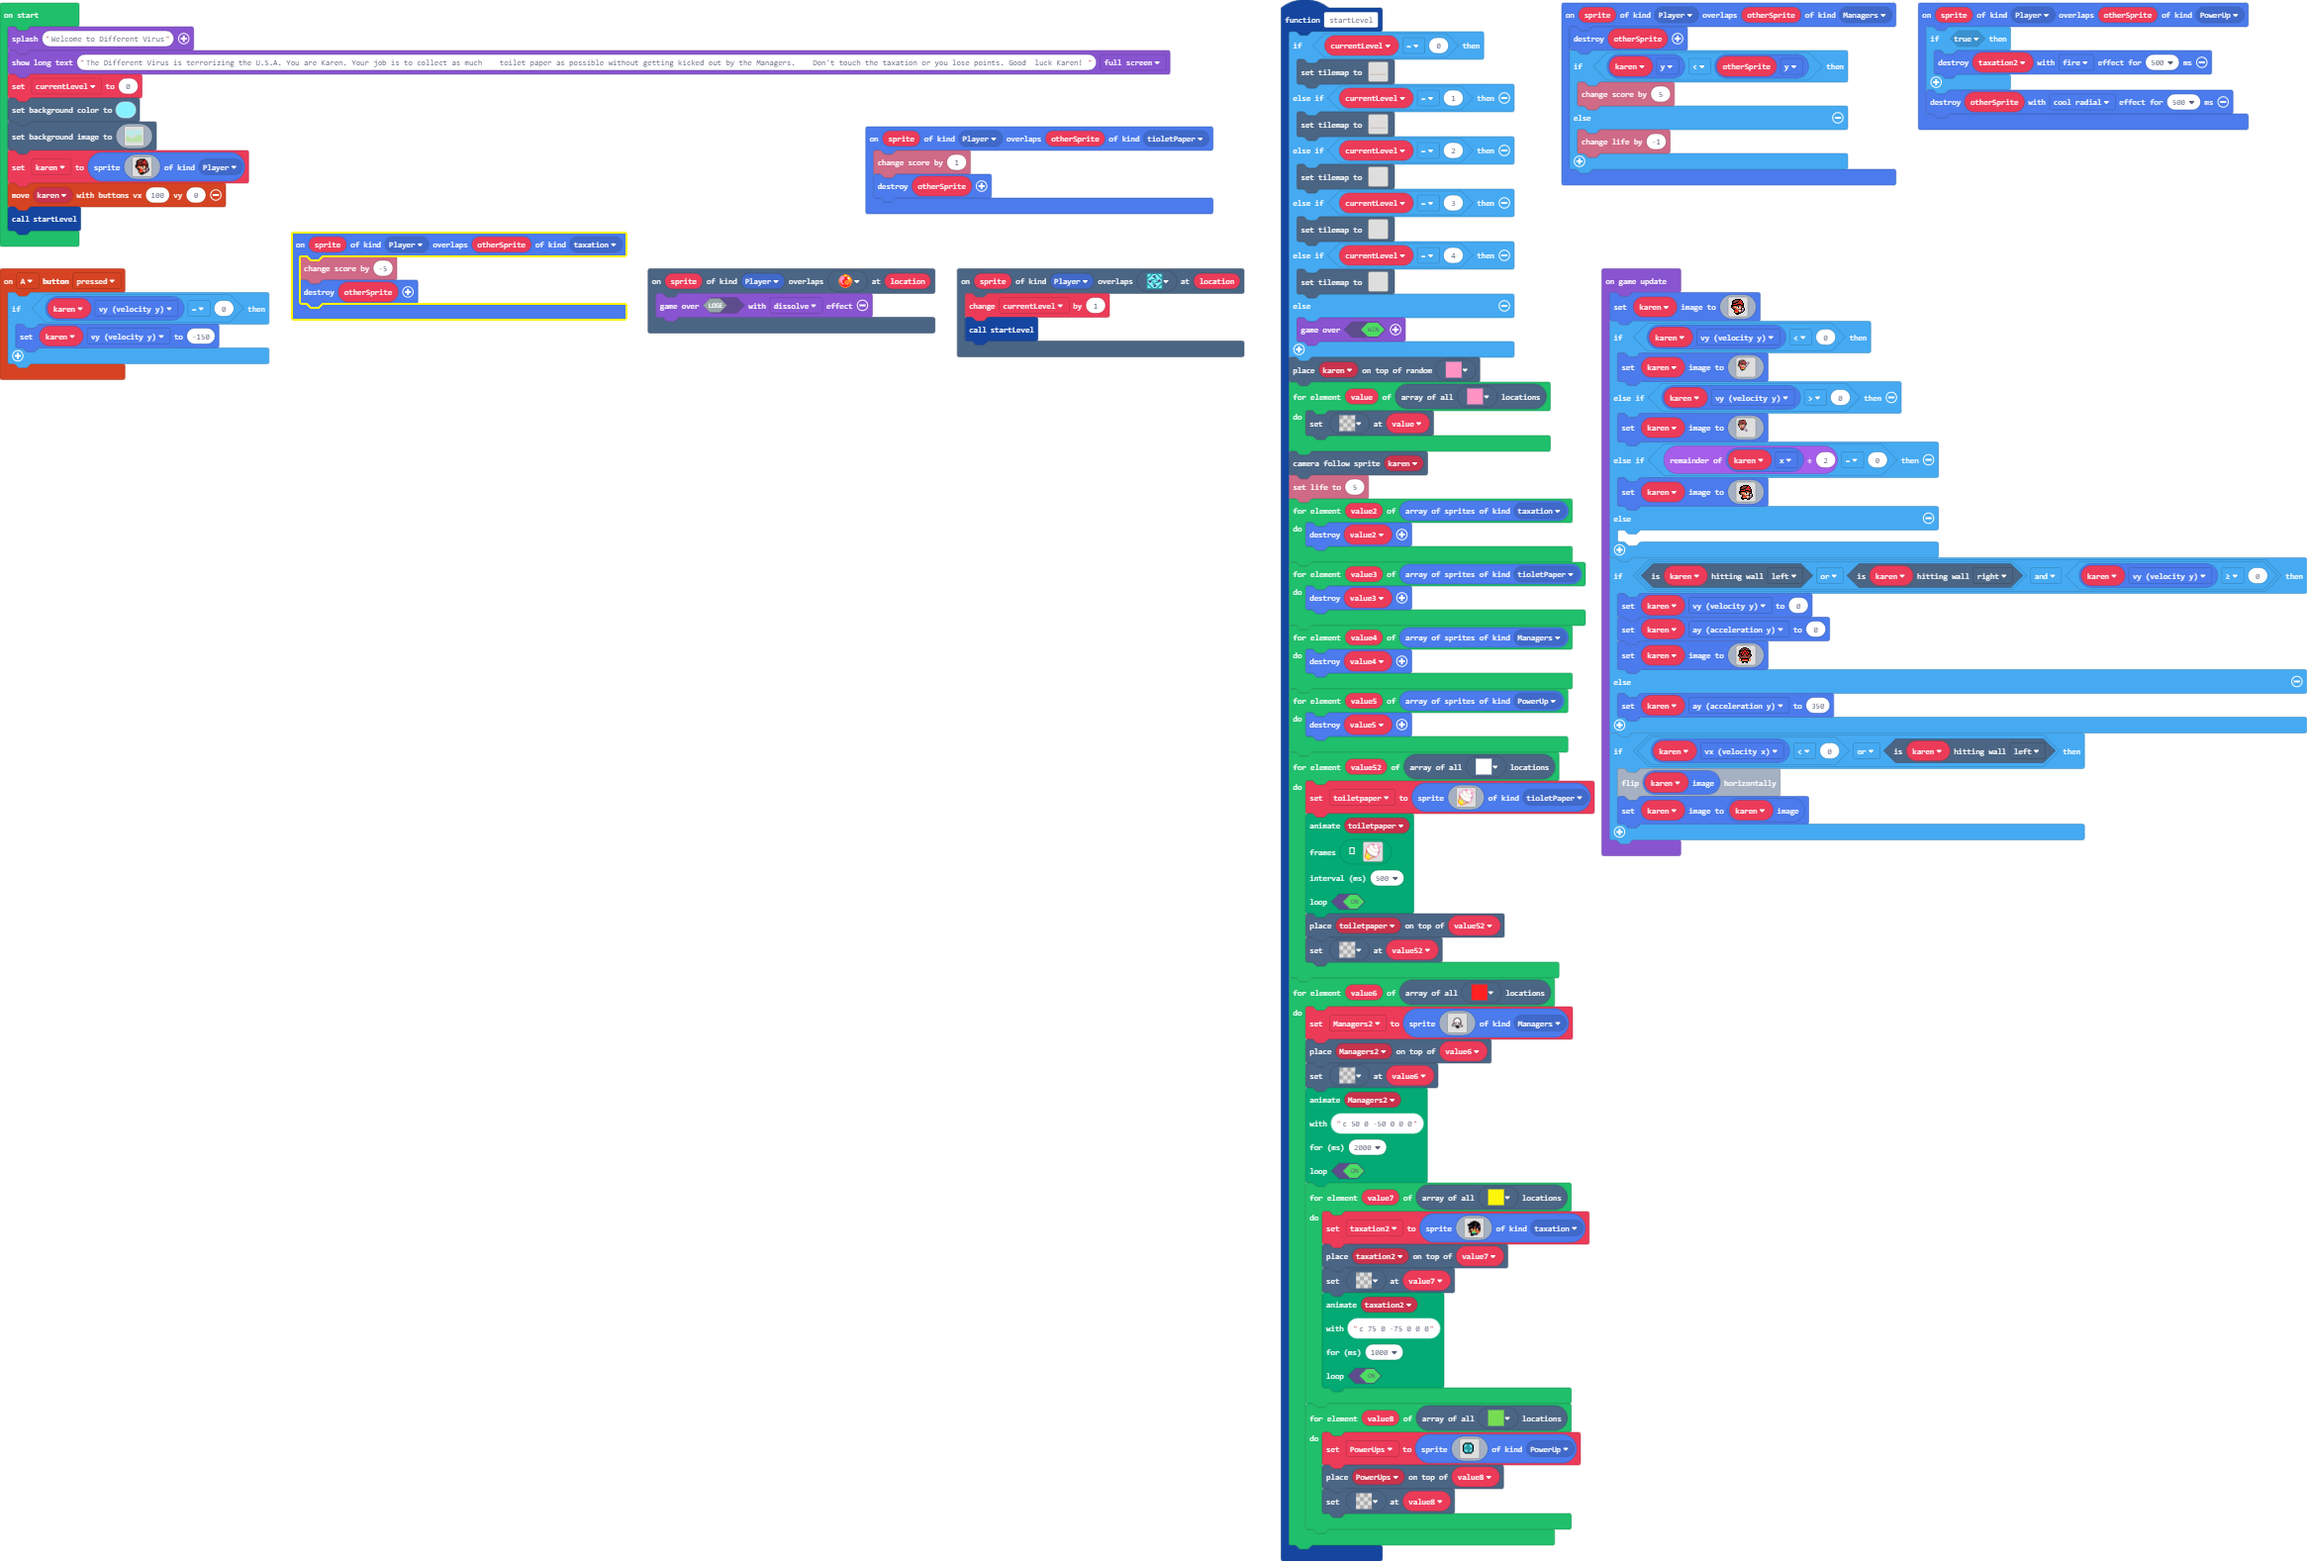
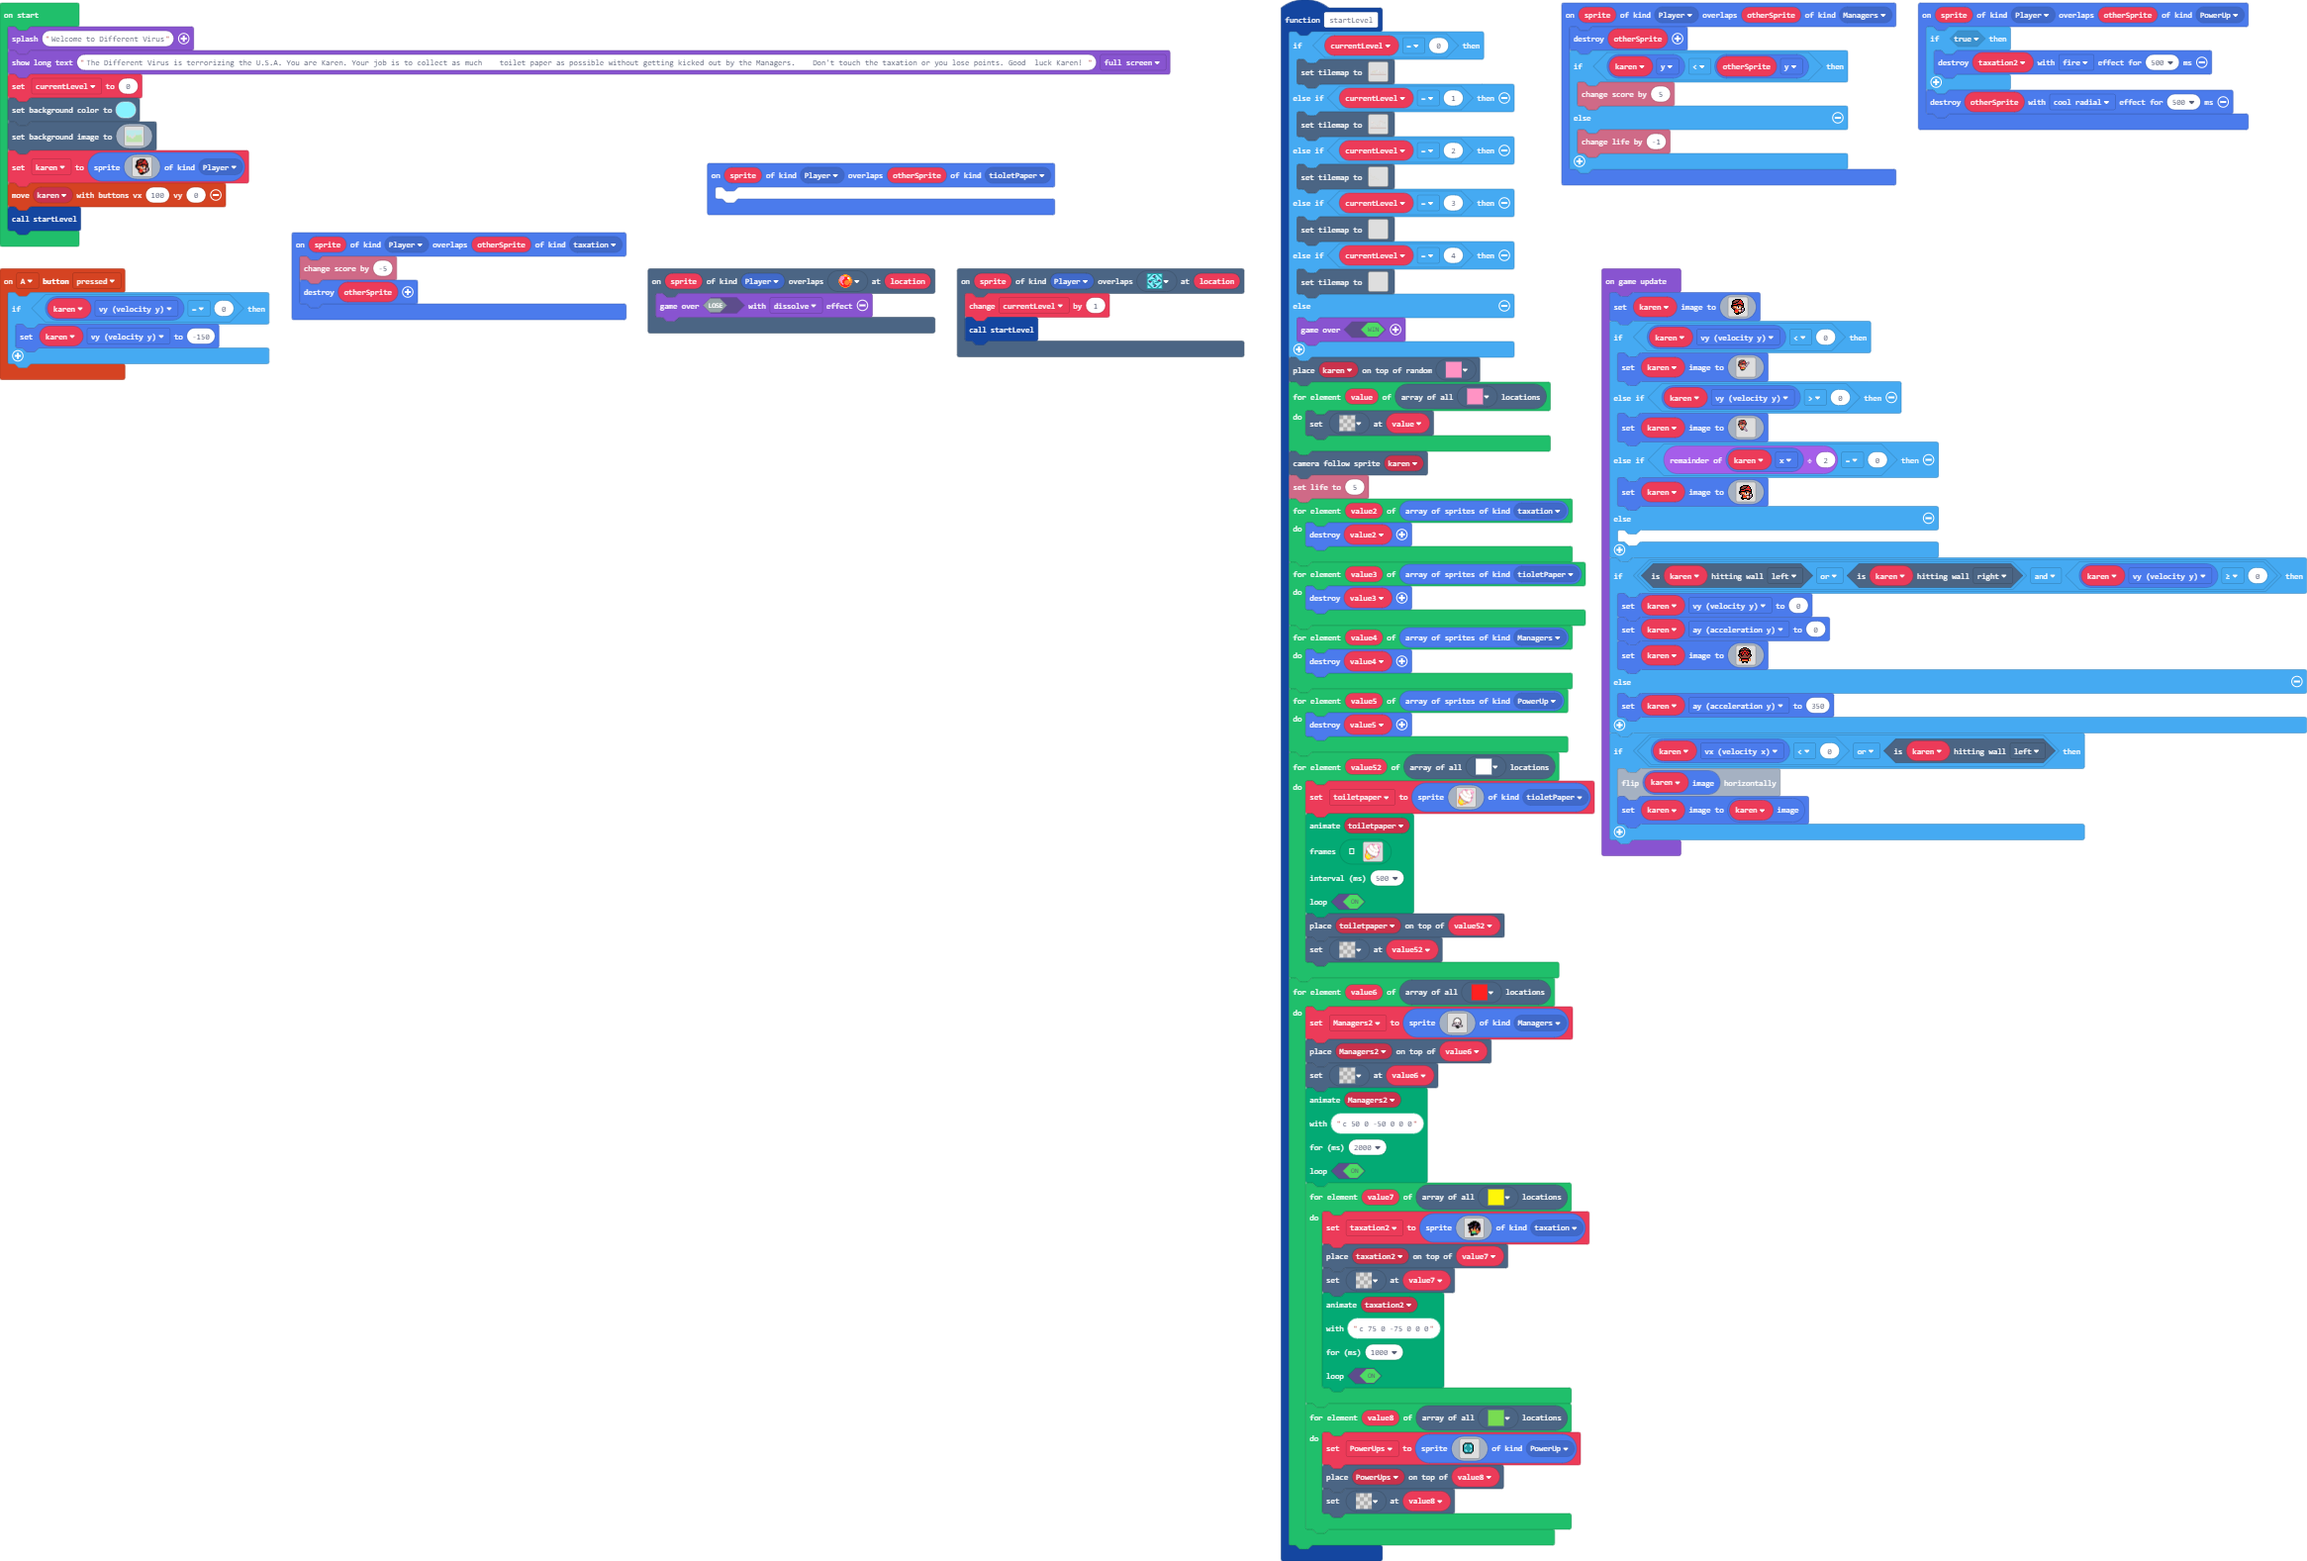
Update main.blocks, main.ts

Changed region(s): [[0.3089, 0.0621, 0.5251, 0.1554], [0.1236, 0.1554, 0.1853, 0.2175]]

diff --git a/main.ts b/main.ts
@@ -121,8 +121,7 @@ namespace myTiles {
 `
 }
 sprites.onOverlap(SpriteKind.Player, SpriteKind.tioletPaper, function (sprite, otherSprite) {
-    info.changeScoreBy(1)
-    otherSprite.destroy()
+	
 })
 sprites.onOverlap(SpriteKind.Player, SpriteKind.Managers, function (sprite, otherSprite) {
     otherSprite.destroy()
